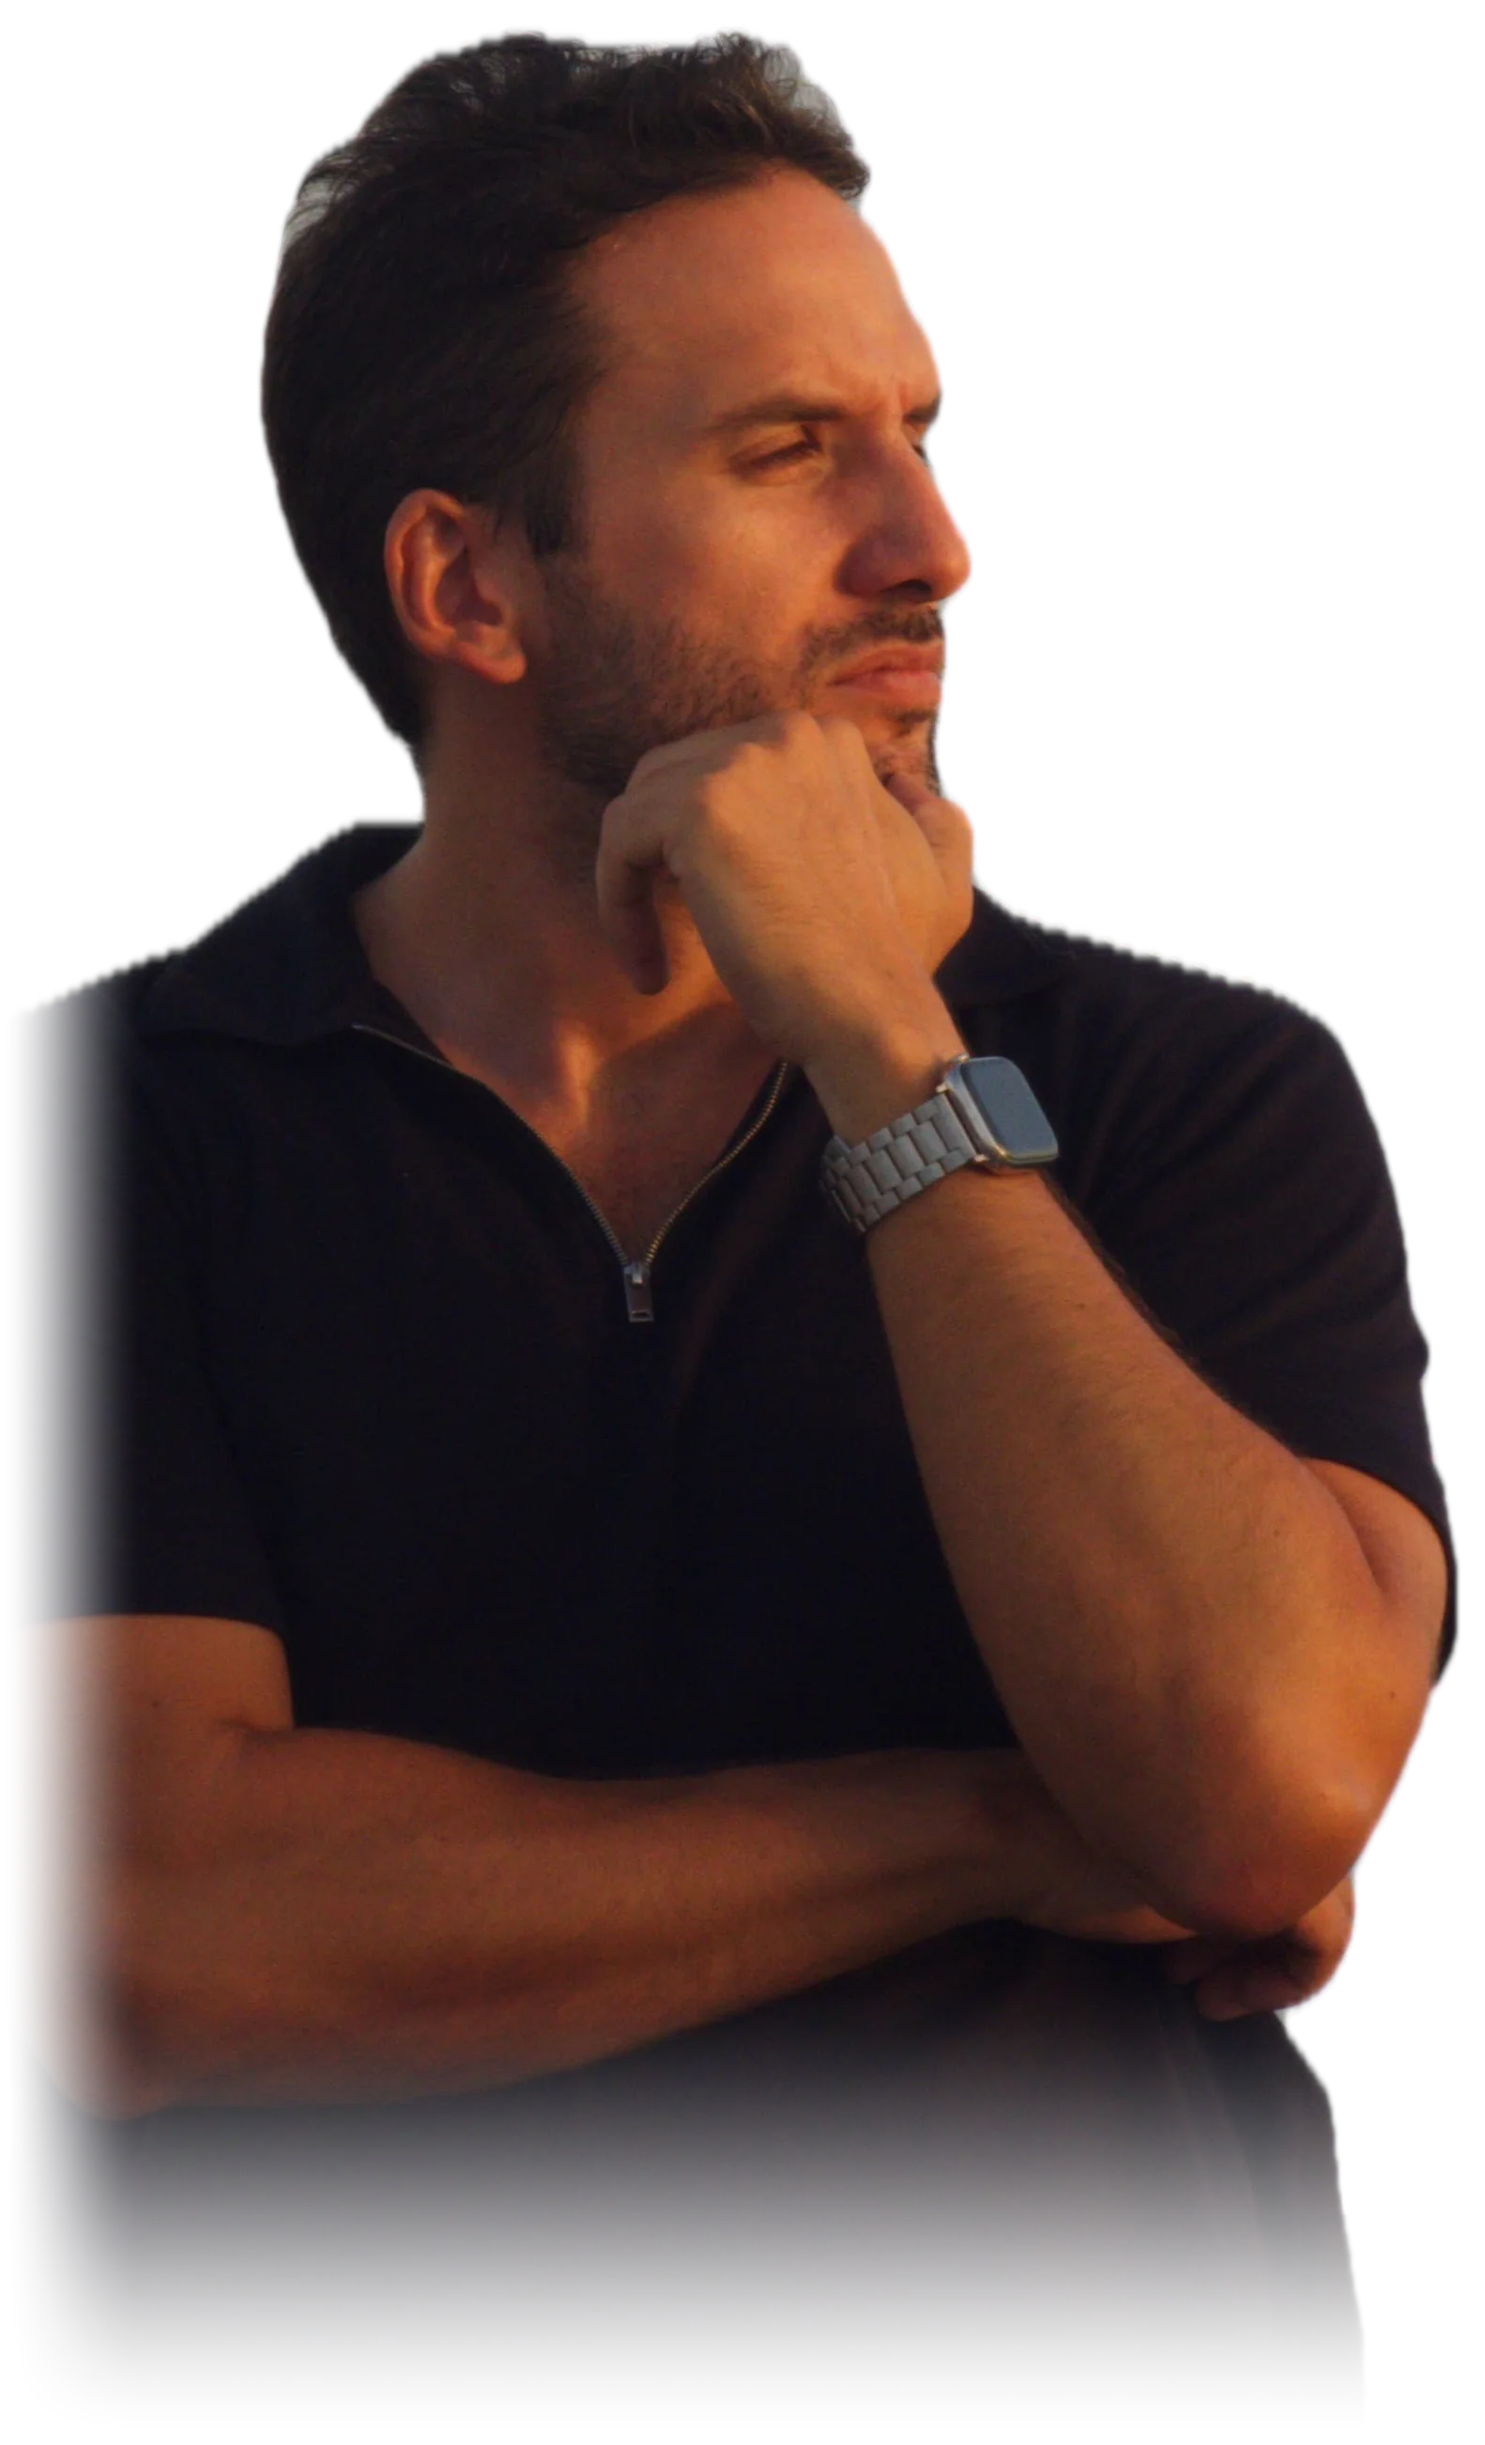
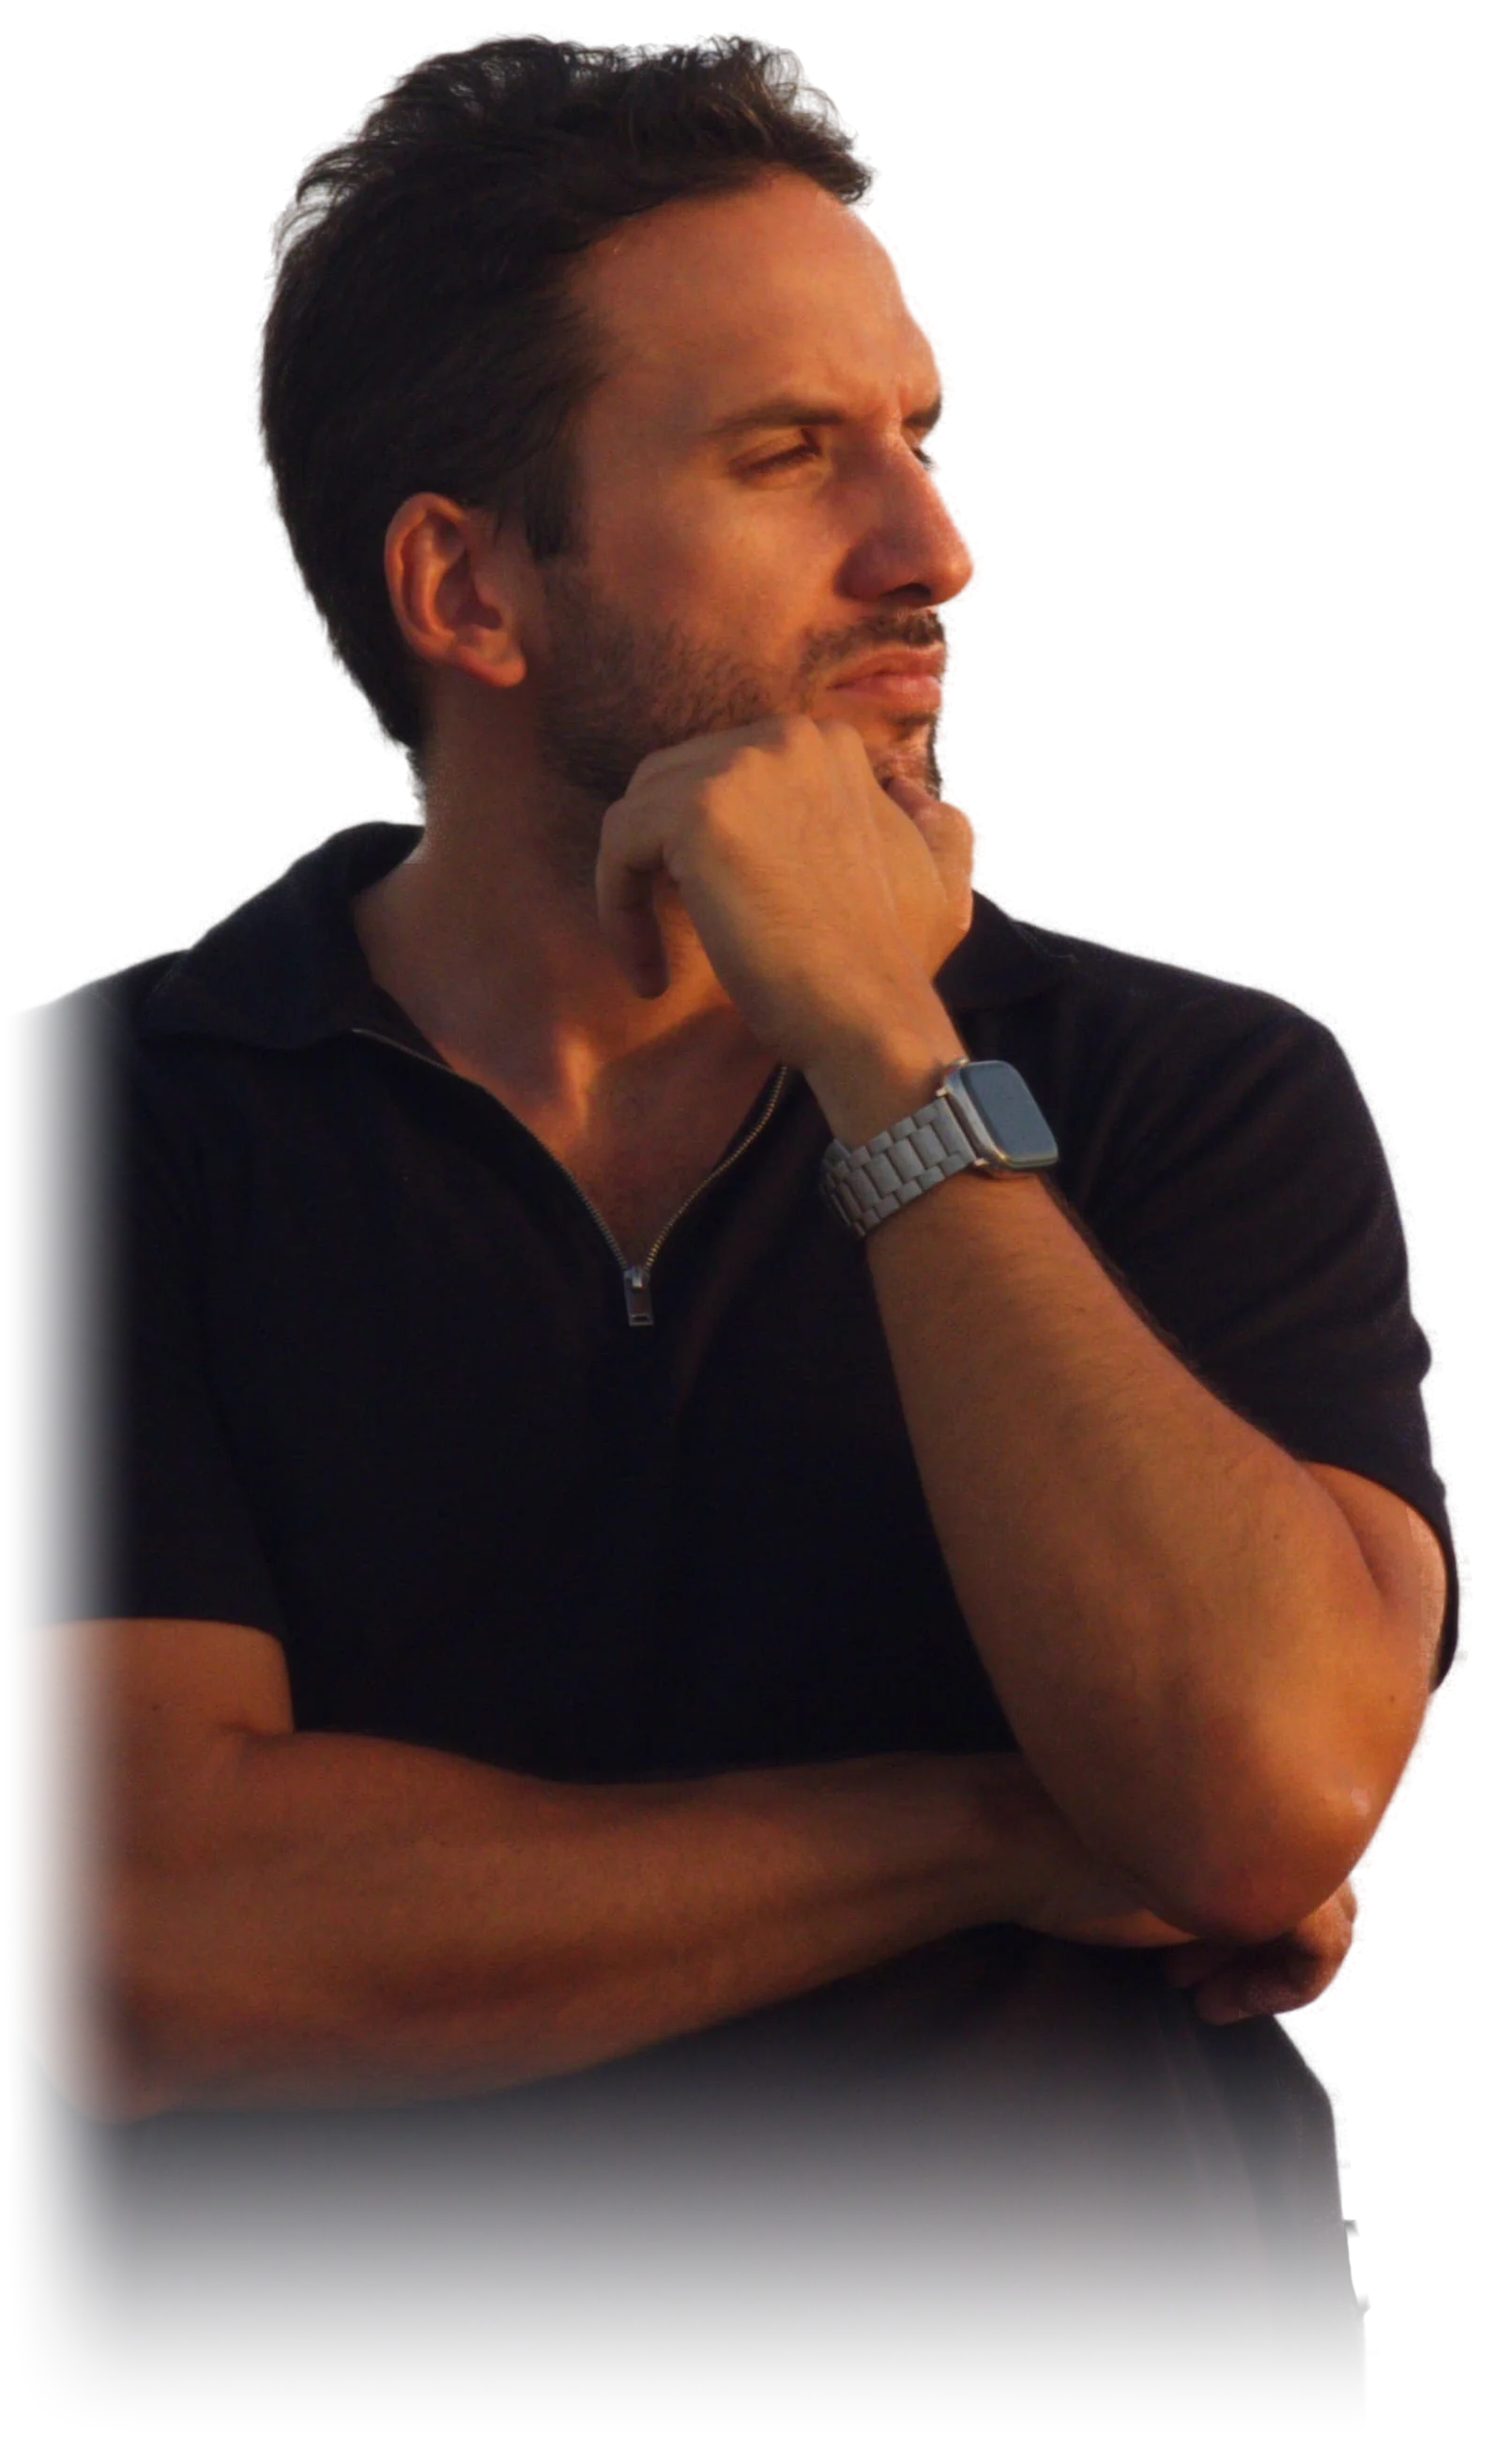
Cut the hero portrait's hair edge cleanly.
Use Vision's person matte for the hair, re-estimate the edge from the
photo's own colours so strands are partly transparent, and strip the sky
haze from them so no pale fringe or dark outline remains.

diff --git a/scripts/person-matte.swift b/scripts/person-matte.swift
@@ -1,0 +1,52 @@
+import Foundation
+import Vision
+import CoreImage
+import CoreVideo
+
+// Usage: swift person-matte.swift <input.jpg> <out-matte.png>
+// Apple's person segmentation at .accurate quality: a soft matte tuned for
+// people, with more hair detail than the generic foreground mask.
+let args = CommandLine.arguments
+guard args.count == 3 else {
+  print("usage: person-matte <in> <out-matte.png>")
+  exit(1)
+}
+let inURL = URL(fileURLWithPath: args[1])
+let outURL = URL(fileURLWithPath: args[2])
+
+guard let input = CIImage(contentsOf: inURL, options: [.applyOrientationProperty: true]) else {
+  print("cannot read input")
+  exit(1)
+}
+
+let request = VNGeneratePersonSegmentationRequest()
+request.qualityLevel = .accurate
+request.outputPixelFormat = kCVPixelFormatType_OneComponent8
+
+let handler = VNImageRequestHandler(ciImage: input, options: [:])
+do {
+  try handler.perform([request])
+} catch {
+  print("vision failed: \(error)")
+  exit(1)
+}
+guard let buffer = request.results?.first?.pixelBuffer else {
+  print("no person found")
+  exit(1)
+}
+
+var matte = CIImage(cvPixelBuffer: buffer)
+let sx = input.extent.width / matte.extent.width
+let sy = input.extent.height / matte.extent.height
+matte = matte.transformed(by: CGAffineTransform(scaleX: sx, y: sy))
+
+let ctx = CIContext()
+do {
+  try ctx.writePNGRepresentation(
+    of: matte, to: outURL, format: .L8,
+    colorSpace: CGColorSpace(name: CGColorSpace.linearGray)!)
+  print("ok", CVPixelBufferGetWidth(buffer), CVPixelBufferGetHeight(buffer), "->", matte.extent.size)
+} catch {
+  print("write failed: \(error)")
+  exit(1)
+}

diff --git a/lib/data/site.ts b/lib/data/site.ts
@@ -15,7 +15,7 @@ export const site = {
     filename: "Juan_Pablo_Ramirez_Romero_CV.pdf",
   },
   /** cut out of the seafront portrait with on-device segmentation */
-  heroCutout: { src: "/images/hero/jp-depth.webp", width: 1582, height: 2605 },
+  heroCutout: { src: "/images/hero/jp-depth.webp", width: 1594, height: 2609 },
   /** the same photo with its background, for Open Graph and schema */
   portrait: "/images/hero/jp-depth-portrait.jpg",
 } as const;

diff --git a/scripts/refine-cutout.py b/scripts/refine-cutout.py
@@ -1,0 +1,107 @@
+"""Refine the hero cutout's edge, especially the hair.
+
+Inputs (one folder): source.jpg (the photo), person.png (Vision person
+segmentation, scripts/person-matte.swift), mask.png (Vision foreground mask,
+scripts/hero-cutout.swift).
+
+1. Base alpha: the person matte (soft, follows hair), with the foreground mask
+   eroded inside it so the body stays solid.
+2. Edge band (14px out, 42px in): alpha re-estimated per pixel from local
+   foreground and background colours. The sky is a smooth haze and the hair is
+   dark, so this recovers individual strands as partial transparency.
+3. Colour decontamination: edge pixels are un-mixed from the haze, and the
+   faintest strands take the local hair colour, so no light fringe remains.
+4. Baked fades on the frame-cut left arm and the bottom; crop; WebP with alpha.
+
+Usage: python3 -I scripts/refine-cutout.py <folder> <out.webp>
+"""
+import sys
+from pathlib import Path
+
+import numpy as np
+from PIL import Image
+from scipy import ndimage
+
+src_dir = Path(sys.argv[1])
+out_path = Path(sys.argv[2])
+
+src = Image.open(src_dir / "source.jpg").convert("RGB")
+W, H = src.size
+C = np.asarray(src).astype(np.float32) / 255.0
+person = np.asarray(Image.open(src_dir / "person.png").convert("L").resize((W, H), Image.LANCZOS)).astype(np.float32) / 255.0
+fg = np.asarray(Image.open(src_dir / "mask.png").convert("L").resize((W, H), Image.LANCZOS)).astype(np.float32) / 255.0
+
+# 1. base alpha
+solid = ndimage.binary_erosion(fg > 0.5, iterations=10)
+a0 = np.maximum(person, solid.astype(np.float32))
+
+inside = a0 > 0.5
+d_in = ndimage.distance_transform_edt(inside)      # distance to edge, inside
+d_out = ndimage.distance_transform_edt(~inside)    # distance to edge, outside
+# outward only a little; inward far enough to catch sky seen through the hair
+band = (d_in < 42) & (d_out < 14)
+
+# 2. local colour estimates
+def norm_blur(weights, sigma):
+    den = ndimage.gaussian_filter(weights, sigma) + 1e-5
+    return np.stack([ndimage.gaussian_filter(C[..., i] * weights, sigma) / den for i in range(3)], -1)
+
+bg_w = ((a0 < 0.03) & (d_out > 6)).astype(np.float32)
+B = norm_blur(bg_w, 22)
+# sample the foreground colour only from pixels that are clearly not sky,
+# otherwise backlit tufts read as "grey hair" and keep the haze in them
+skyish = np.sqrt(np.sum((C - B) ** 2, -1)) < 0.16
+lum = C @ np.array([0.299, 0.587, 0.114], np.float32)
+mx, mn = C.max(-1), C.min(-1)
+sat = (mx - mn) / np.maximum(mx, 1e-4)
+# backlit hair picks up the grey haze: light and unsaturated. Skin stays
+# saturated, real hair stays dark, so both remain valid samples.
+haze_lit = (lum > 0.3) & (sat < 0.28)
+fg_w = ((a0 > 0.97) & (d_in > 4) & ~skyish & ~haze_lit).astype(np.float32)
+F = norm_blur(fg_w, 14)
+
+FB = F - B
+den = np.sum(FB * FB, -1)
+alpha_c = np.clip(np.sum((C - B) * FB, -1) / np.maximum(den, 1e-4), 0, 1)
+# trust the colour estimate only where foreground and background really differ
+trust = np.clip((np.sqrt(den) - 0.12) / 0.2, 0, 1)
+
+a = a0.copy()
+a[band] = (trust * alpha_c + (1 - trust) * a0)[band]
+# nothing outside the band, solid inside it
+a[(~band) & (~inside)] = 0.0
+a[(~band) & inside] = 1.0
+# keep strands from reaching too far into the sky
+reach = np.clip(1 - (d_out - 6) / 8, 0, 1)
+a = np.minimum(a, np.where(inside, 1.0, reach))
+a = ndimage.gaussian_filter(a, 0.55)
+a = np.clip(a, 0, 1)
+
+# 3. decontaminate edge colours
+ae = a[..., None]
+Fc = np.clip((C - (1 - ae) * B) / np.maximum(ae, 0.15), 0, 1)
+t = np.clip((ae - 0.15) / 0.45, 0, 1)
+t = t * t * (3 - 2 * t)
+F_out = np.where(ae < 0.999, t * Fc + (1 - t) * F, C)
+
+# 4. fades, crop, save
+yy, xx = np.mgrid[0:H, 0:W].astype(np.float32)
+def smooth(v):
+    v = np.clip(v, 0, 1)
+    return v * v * (3 - 2 * v)
+alpha = a * smooth(xx / (W * 0.09)) * smooth((H - 1 - yy) / (H * 0.14))
+
+rgba = (np.clip(np.dstack([F_out, alpha[..., None]]), 0, 1) * 255).astype(np.uint8)
+cut = Image.fromarray(rgba, "RGBA")
+bbox = cut.getbbox()
+pad = 24
+box = (max(bbox[0] - pad, 0), max(bbox[1] - pad, 0), min(bbox[2] + pad, W), H)
+cut = cut.crop(box)
+cut.save(out_path, "WEBP", quality=86, method=6, exact=True)
+print("cutout", cut.size, out_path.stat().st_size, "bytes")
+
+# review composites: dark page, the hero's warm light, and the white name
+for name, colour in {"dark": (5, 7, 12), "warm": (88, 62, 54), "white": (232, 236, 244)}.items():
+    bg = Image.new("RGBA", cut.size, colour + (255,))
+    bg.alpha_composite(cut)
+    bg.convert("RGB").crop((200, 0, 1150, 650)).save(src_dir / f"refined-{name}.jpg", quality=90)

diff --git a/DESIGN.md b/DESIGN.md
@@ -64,10 +64,14 @@ CSS gradients. The only gradients are the mask fades on ambient light.
 ## 5. Imagery
 
 - **Hero portrait**: `public/images/hero/jp-depth.webp`, cut out of the seafront
-  photo (`~/Downloads/Photos/f44884a7-…jpg`) with Apple's on-device Vision
-  segmentation (`scripts/hero-cutout.swift`), then `scripts/process-images.py`:
-  removes the haze halo from the edges, fades the frame-cut left arm and the
-  bottom, crops, saves WebP with alpha. Re-run both if the photo changes.
+  photo (`~/Downloads/Photos/f44884a7-…jpg`) on-device with Apple Vision:
+  `scripts/person-matte.swift` (person matte, follows the hair) and
+  `scripts/hero-cutout.swift` (foreground mask, keeps the body solid). Then
+  `scripts/refine-cutout.py` re-estimates the hair edge from the photo's own
+  colours so strands are partly transparent, removes the sky colour from them
+  (no pale fringe), fades the frame-cut left arm and the bottom, and saves WebP
+  with alpha. Re-run all three if the photo changes, then update
+  `site.heroCutout` with the new size.
 - **Ambient light**: `public/images/ambient/*.webp`, ~40px images pre-blurred by
   the same script. `<Ambient>` scales them up with `background-size: cover`;
   bilinear upscaling does the blur for free. Never use CSS `filter: blur()` on
